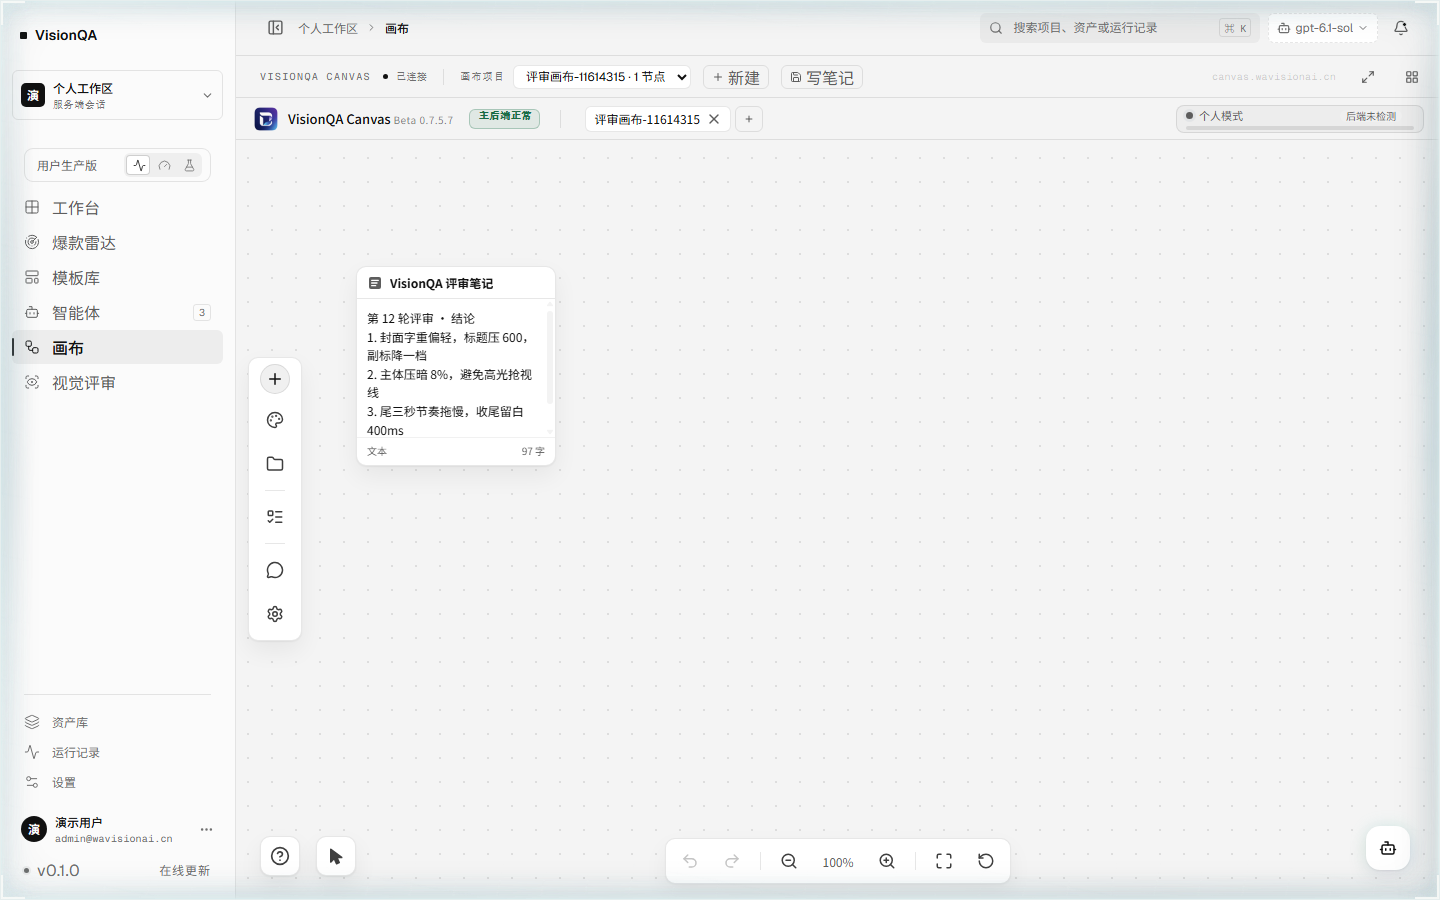
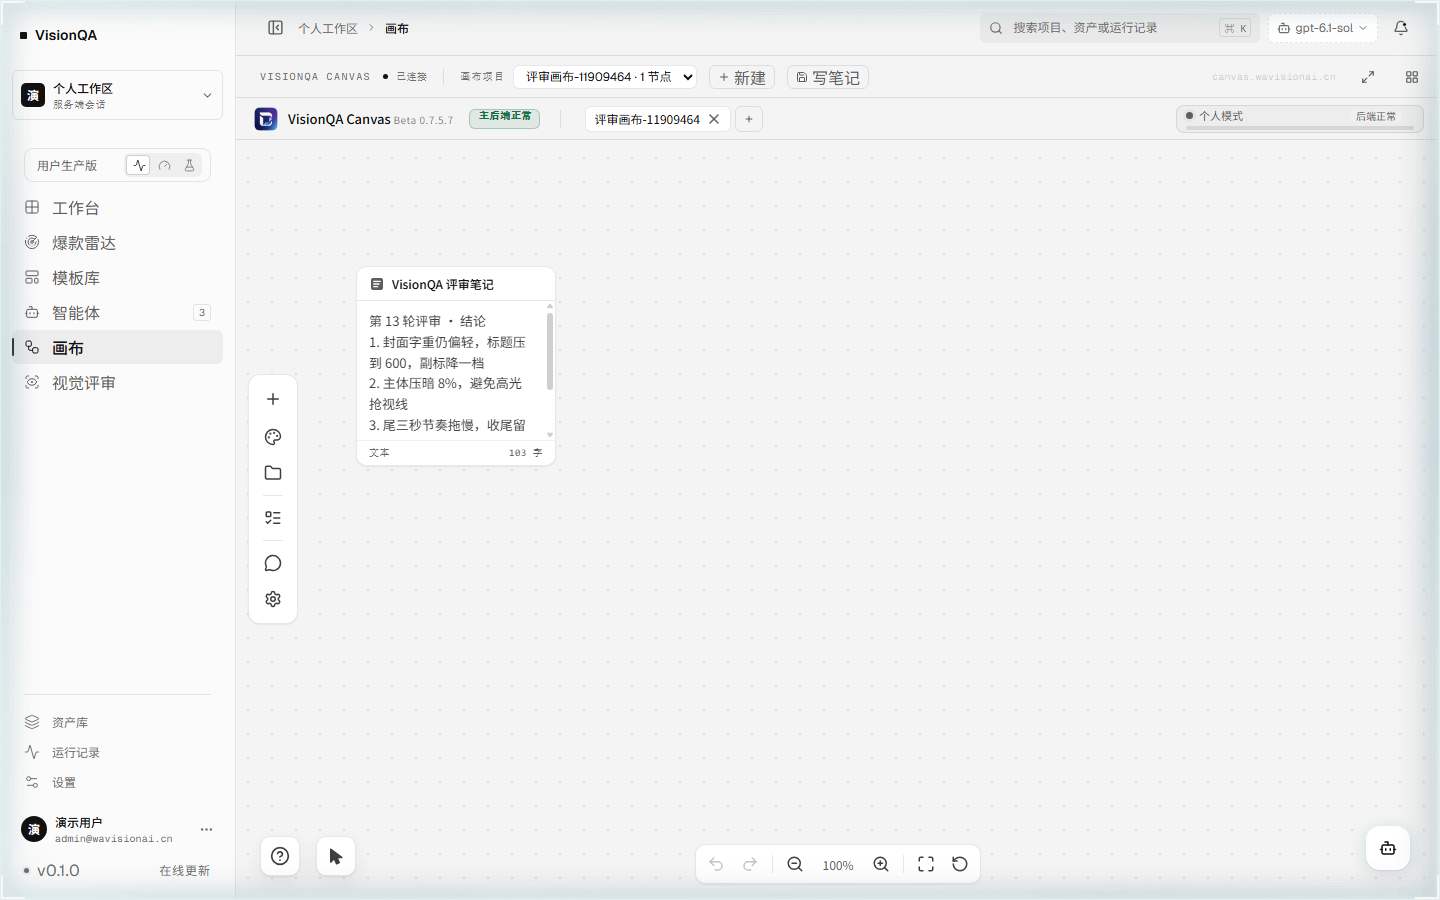
style(canvas): 第三轮外壳对齐（左轨/底部条/节点卡/控件）；顶栏状态报真实探测

diff --git a/deploy/bd-canvas/vq-theme.css b/deploy/bd-canvas/vq-theme.css
@@ -669,6 +669,8 @@ input[type="range"]::-moz-range-thumb { border-color: #ffffff !important; }
 /* 底部控制条：40px 高、4px 内边距、32px 方形按钮，缩放数字走等宽 */
 .canvas-controls {
   height: 40px !important;
+  min-height: 40px !important;
+  max-height: 40px !important;
   padding: 4px !important;
   gap: 2px !important;
   border-radius: 10px !important;

diff --git a/docs/visionqa-canvas-integration.md b/docs/visionqa-canvas-integration.md
@@ -122,6 +122,14 @@ node .\node_modules\vite\bin\vite.js --host 127.0.0.1 --port 6677
 
 ### 8.1 顶栏的「后端」状态要报真话
 
+品牌旁那颗（`#local-backend-status`）探 `/api/health`（5312 画布数据后端），5s 超时、30s 一轮，title 里带真实状态码与耗时。右侧那颗「连接」胶囊原本归管理服务（`/enterprise/api`）状态管，未登录管理账号时恒为 `unknown`，于是永远显示「后端未检测」；现在由宿主把手探到的数据后端状态写进 `EnterpriseSessionManager.setConnectionProbe()`，未登录也报真话。
+
+### 8.1b 第三轮主题（2026-11-09）
+
+第 11 节统一外壳：左轨 8px 内边距 + 32px 方形 8px 圆角按钮、底部控制条 40px（必须同时压 `min-height`，它自己写死 44px）、节点卡 12/500 标题 + 13px/1.6 正文 + 等宽页脚、悬浮工具条 28px、参数面板与控件（6px 圆角、聚焦转墨线）、滚动条 8px。
+
+![线上实拍：左轨方形按钮、节点卡与底部 40px 控制条](bdc-chrome-after.png)
+
 - 品牌旁边那颗小胶囊（`#local-backend-status`）探的是 `/api/health`（5312 画布数据后端），5s 超时，30s 一轮，标题里带真实状态码与耗时。
 - 顶栏右侧那颗「连接」胶囊属于管理服务（`/enterprise/api`）状态。没登录管理账号时它一直是 `unknown`，于是永远显示「后端未检测」——现在由宿主把手探到的数据后端状态写进 `EnterpriseSessionManager.setConnectionProbe()`，未登录时显示真实结果（后端正常 / 后端断连），不再是永久「未检测」。
 

diff --git a/README.md b/README.md
@@ -264,6 +264,17 @@ DOMAIN=visionqa.wavisionai.cn bash deploy/production/enable-https.sh            
 
 ![线上实拍：42px 状态条与画布顶栏同高同色，品牌已统一为 VisionQA Canvas](docs/bdc-aligned.png)
 
+**第三轮：外壳细节（2026-11-09）** 主题层第 11 节把剩下的界面统一成一套 4pt 栅格：
+
+- 左侧功能轨：8px 内边距、32px 方形 8px 圆角按钮（原来是灰底圆形），悬浮 5% 墨色；
+- 底部控制条：46 → **40px** 高（它的 `min-height: 44px` 要一起压，只写 `height` 不生效）、按钮 32px、缩放数字等宽 10px；
+- 节点卡：标题 12/500、正文 13px/1.6、页脚等宽 10px、选中转单层墨色描边；
+- 悬浮工具条 28px、参数面板 12px 圆角 + 等宽分组标签、输入框 6px 圆角聚焦转墨色、滚动条细化到 8px。
+
+**顶栏状态改报真实结果（2026-11-09）**：品牌旁那颗探的是 `/api/health`（5312），5s 超时、30s 一轮，title 带状态码与耗时；右侧连接胶囊原本归管理服务状态管，未登录时恒为 `unknown` 所以永远显示「后端未检测」——现在宿主把真实探测结果写进 `setConnectionProbe()`，未登录也报真话（后端正常 / 后端断连）。
+
+![线上实拍：左轨方形按钮、节点卡与底部 40px 控制条](docs/bdc-chrome-after.png)
+
 **画布与工作台数据打通（2026-11-06）**：工作台不再只是「嵌一个 iframe」，它和后端共用同一批画布。
 
 | 工作台接口 | 干什么 | 打到的画布接口 |
